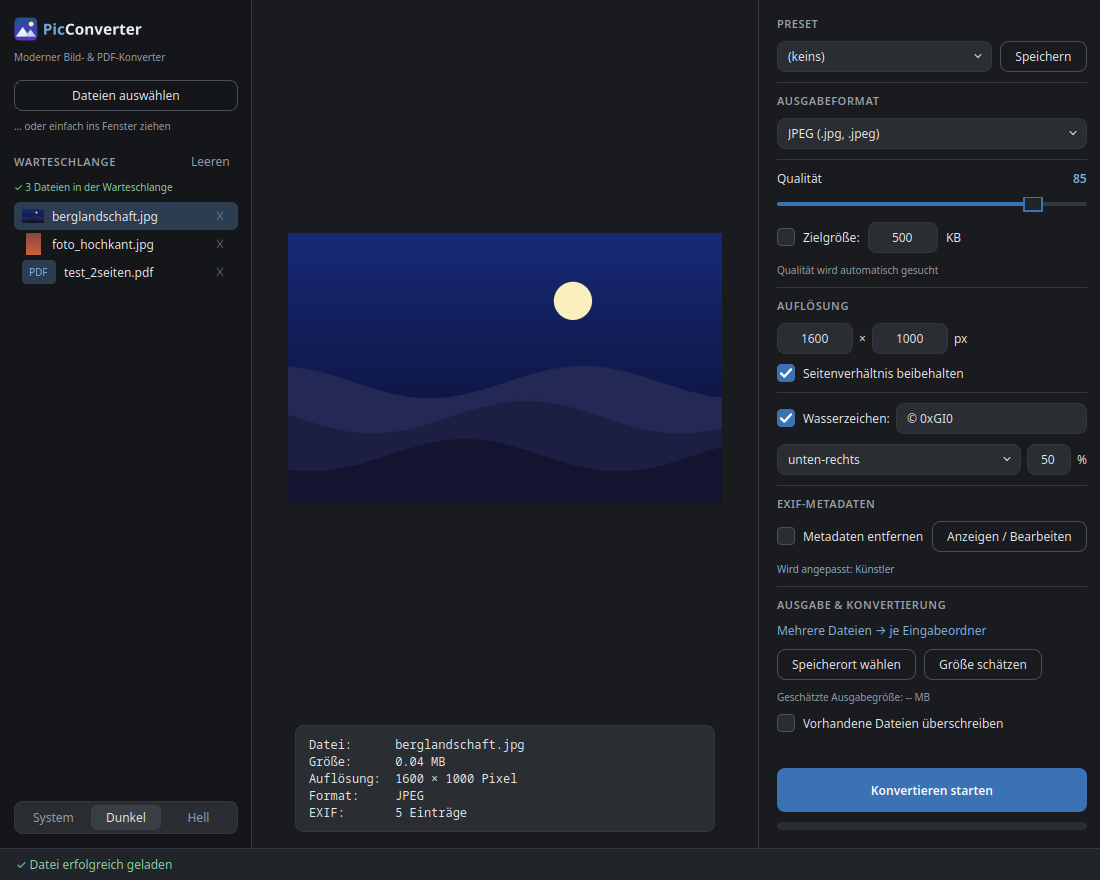
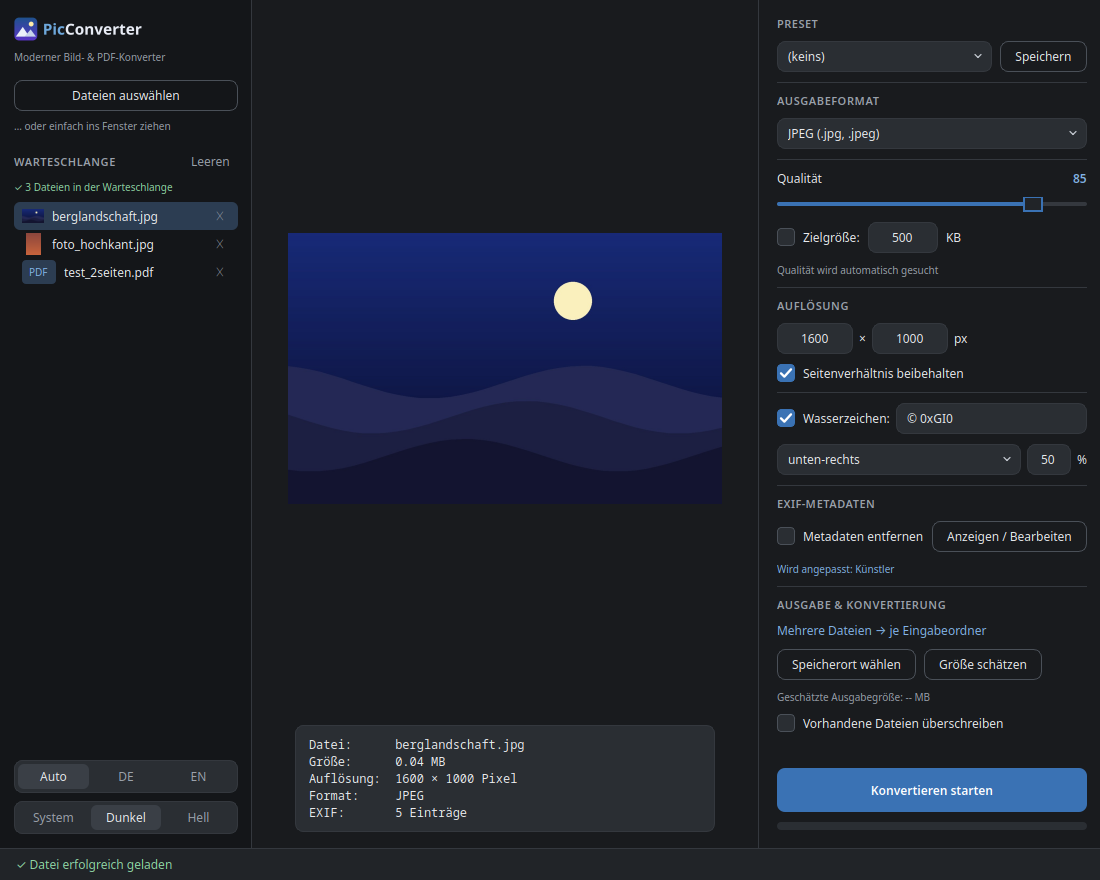
Sprachumschalter (Auto/DE/EN) in der Sidebar: Sprache live wechselbar und persistent
Neue i18n-Funktion set_language(); Einstellungen in _collect_settings/
_apply_settings ausgelagert, UI baut sich beim Wechsel zustandserhaltend
neu auf. Screenshot aktualisiert.

Changed region(s): [[0.0, 0.8591, 0.2164, 0.9205]]

diff --git a/picconverter_gui.py b/picconverter_gui.py
@@ -27,6 +27,7 @@ except ImportError:
 from PIL import Image
 
 import picconverter_core as core
+import picconverter_i18n as i18n
 from picconverter_i18n import tr
 
 ASSETS = Path(__file__).parent / 'assets'
@@ -493,10 +494,16 @@ class _WorkerSignals(QObject):
 class PicConverterGUI(QMainWindow):
     def __init__(self):
         super().__init__()
-        self.setWindowTitle(tr("PicConverter - Bild- & PDF-Konverter"))
         icon_path = ASSETS / 'icon.png'
         if icon_path.exists():
             self.setWindowIcon(QIcon(str(icon_path)))
+
+        # Sprache vor dem UI-Aufbau setzen; PICCONVERTER_LANG hat Vorrang
+        saved = core.load_gui_settings() or {}
+        self.language = saved.get('language', 'system')
+        if os.environ.get('PICCONVERTER_LANG'):
+            self.language = 'system'
+        i18n.set_language(self.language)
 
         self.input_paths = []          # Warteschlange aller geladenen Dateien
         self.selected_index = None     # Index der Datei, die Vorschau/Infos zeigt
@@ -550,6 +557,7 @@ class PicConverterGUI(QMainWindow):
             QFontDatabase.SystemFont.FixedFont)
 
     def setup_ui(self):
+        self.setWindowTitle(tr("PicConverter - Bild- & PDF-Konverter"))
         central = QWidget()
         self.setCentralWidget(central)
         outer = QVBoxLayout(central)
@@ -610,6 +618,26 @@ class PicConverterGUI(QMainWindow):
         self.file_list.currentRowChanged.connect(self.on_row_changed)
         side.addWidget(self.file_list, 1)
 
+        # Sprachumschalter (Auto = Systemsprache)
+        lang_frame = QFrame()
+        lang_frame.setObjectName("segmented")
+        lang_layout = QHBoxLayout(lang_frame)
+        lang_layout.setContentsMargins(3, 3, 3, 3)
+        lang_layout.setSpacing(2)
+        self.language_group = QButtonGroup(self)
+        self.language_buttons = {}
+        for label, lang in (("Auto", 'system'), ("DE", 'de'), ("EN", 'en')):
+            btn = QPushButton(label)
+            btn.setObjectName("segItem")
+            btn.setCheckable(True)
+            btn.setCursor(Qt.CursorShape.PointingHandCursor)
+            btn.clicked.connect(lambda _, l=lang: self.on_language_change(l))
+            lang_layout.addWidget(btn, 1)
+            self.language_group.addButton(btn)
+            self.language_buttons[lang] = btn
+        self.language_buttons[self.language].setChecked(True)
+        side.addWidget(lang_frame)
+
         # Appearance-Umschalter als Segmented Control
         seg_frame = QFrame()
         seg_frame.setObjectName("segmented")
@@ -628,7 +656,7 @@ class PicConverterGUI(QMainWindow):
             seg_layout.addWidget(btn, 1)
             self.appearance_group.addButton(btn)
             self.appearance_buttons[mode] = btn
-        self.appearance_buttons['system'].setChecked(True)
+        self.appearance_buttons[self.appearance_mode].setChecked(True)
         side.addWidget(seg_frame)
 
         main.addWidget(sidebar)
@@ -996,55 +1024,83 @@ class PicConverterGUI(QMainWindow):
         if not settings:
             return
         try:
-            mode = settings.get('appearance', 'system')
-            if mode in self.appearance_buttons:
-                self.appearance_buttons[mode].setChecked(True)
-                self.apply_theme(mode)
-
-            fmt_label = settings.get('format')
-            if fmt_label in SUPPORTED_FORMATS:
-                self.format_menu.setCurrentText(fmt_label)
-                self.on_format_change()
-            if 'quality' in settings:
-                self.quality_slider.setValue(int(settings['quality']))
-                self.on_quality_change()
-            self.target_check.setChecked(bool(settings.get('use_target', False)))
-            self.target_entry.setText(str(settings.get('target_kb', 500)))
-            self.aspect_check.setChecked(bool(settings.get('keep_aspect', True)))
-            self.exif_strip_check.setChecked(bool(settings.get('strip_exif', False)))
-            self.overwrite_check.setChecked(bool(settings.get('overwrite', False)))
-            self.watermark_check.setChecked(bool(settings.get('watermark_on', False)))
-            self.watermark_text_entry.setText(settings.get('watermark_text', ''))
-            pos = settings.get('watermark_pos', 'unten-rechts')
-            if pos in core.WATERMARK_POSITIONS:
-                self.watermark_pos_menu.setCurrentText(tr(pos))
-            self.watermark_opacity_entry.setText(
-                str(settings.get('watermark_opacity', 50)))
-            self.on_target_toggle()
+            self._apply_settings(settings)
         except Exception:
             pass  # defekte Einstellungsdatei ignorieren
+
+    def _apply_settings(self, settings):
+        """Überträgt ein Einstellungs-Dict auf die Widgets"""
+        mode = settings.get('appearance', 'system')
+        if mode in self.appearance_buttons:
+            self.appearance_buttons[mode].setChecked(True)
+            self.apply_theme(mode)
+
+        fmt_label = settings.get('format')
+        if fmt_label in SUPPORTED_FORMATS:
+            self.format_menu.setCurrentText(fmt_label)
+            self.on_format_change()
+        if 'quality' in settings:
+            self.quality_slider.setValue(int(settings['quality']))
+            self.on_quality_change()
+        self.target_check.setChecked(bool(settings.get('use_target', False)))
+        self.target_entry.setText(str(settings.get('target_kb', 500)))
+        self.aspect_check.setChecked(bool(settings.get('keep_aspect', True)))
+        self.exif_strip_check.setChecked(bool(settings.get('strip_exif', False)))
+        self.overwrite_check.setChecked(bool(settings.get('overwrite', False)))
+        self.watermark_check.setChecked(bool(settings.get('watermark_on', False)))
+        self.watermark_text_entry.setText(settings.get('watermark_text', ''))
+        pos = settings.get('watermark_pos', 'unten-rechts')
+        if pos in core.WATERMARK_POSITIONS:
+            self.watermark_pos_menu.setCurrentText(tr(pos))
+        self.watermark_opacity_entry.setText(
+            str(settings.get('watermark_opacity', 50)))
+        self.on_target_toggle()
+
+    def _collect_settings(self):
+        """Liest den aktuellen Widget-Zustand als Einstellungs-Dict aus"""
+        return {
+            'appearance': self.appearance_mode,
+            'language': self.language,
+            'format': self.format_menu.currentText(),
+            'quality': int(self.quality_slider.value()),
+            'use_target': self.target_check.isChecked(),
+            'target_kb': self.target_entry.text(),
+            'keep_aspect': self.aspect_check.isChecked(),
+            'strip_exif': self.exif_strip_check.isChecked(),
+            'overwrite': self.overwrite_check.isChecked(),
+            'watermark_on': self.watermark_check.isChecked(),
+            'watermark_text': self.watermark_text_entry.text(),
+            'watermark_pos': self.watermark_pos_labels.get(
+                self.watermark_pos_menu.currentText(), 'unten-rechts'),
+            'watermark_opacity': self.watermark_opacity_entry.text(),
+        }
 
     def closeEvent(self, event):
         """Speichert die Einstellungen und schließt das Fenster"""
         try:
-            core.save_gui_settings({
-                'appearance': self.appearance_mode,
-                'format': self.format_menu.currentText(),
-                'quality': int(self.quality_slider.value()),
-                'use_target': self.target_check.isChecked(),
-                'target_kb': self.target_entry.text(),
-                'keep_aspect': self.aspect_check.isChecked(),
-                'strip_exif': self.exif_strip_check.isChecked(),
-                'overwrite': self.overwrite_check.isChecked(),
-                'watermark_on': self.watermark_check.isChecked(),
-                'watermark_text': self.watermark_text_entry.text(),
-                'watermark_pos': self.watermark_pos_labels.get(
-                    self.watermark_pos_menu.currentText(), 'unten-rechts'),
-                'watermark_opacity': self.watermark_opacity_entry.text(),
-            })
+            core.save_gui_settings(self._collect_settings())
         except Exception:
             pass
         super().closeEvent(event)
+
+    def on_language_change(self, lang):
+        """Wechselt die Sprache und baut die Oberfläche neu auf"""
+        if lang == self.language:
+            return
+        settings = self._collect_settings()
+        self.language = lang
+        i18n.set_language(lang)
+        self.setup_ui()
+        self.apply_theme(self.appearance_mode)
+        try:
+            self._apply_settings(settings)
+        except Exception:
+            pass
+        self.refresh_file_list()
+        if self.input_paths:
+            self.load_selected()
+        self.update_exif_hint()
+        self.set_status(tr("Sprache geändert"), 'success')
 
     # ---------- Presets ----------
 

diff --git a/picconverter_i18n.py b/picconverter_i18n.py
@@ -173,6 +173,7 @@ Examples:
         "Alle Seiten exportieren": "Export all pages",
         "Vorschau": "Preview",
         "Warteschlange": "Queue",
+        "Sprache geändert": "Language changed",
         "… oder einfach ins Fenster ziehen": "… or simply drag them into the window",
         "Qualität wird automatisch gesucht": "Quality is searched automatically",
         "Vorhandene Dateien überschreiben": "Overwrite existing files",
@@ -314,6 +315,12 @@ def _detect_language():
 
 
 LANGUAGE = _detect_language()
+
+
+def set_language(lang):
+    """Setzt die aktive Sprache zur Laufzeit ('de', 'en' oder 'system')"""
+    global LANGUAGE
+    LANGUAGE = _detect_language() if lang == 'system' else lang
 
 
 def tr(text):

diff --git a/CHANGELOG.md b/CHANGELOG.md
@@ -6,6 +6,11 @@ Versionierung [Semantic Versioning](https://semver.org/lang/de/).
 
 ## [Unreleased]
 
+### Hinzugefügt
+- **Sprachumschalter in der GUI** (Auto/DE/EN, in der Sidebar): die Sprache
+  lässt sich jetzt live wechseln — die Oberfläche baut sich in der neuen
+  Sprache auf, alle Eingaben bleiben erhalten; die Wahl wird gespeichert
+
 ### Geändert
 - **GUI von CustomTkinter auf PySide6 (Qt 6) portiert** — komplett neues,
   flaches Design mit eigenem hellen/dunklen Theme (folgt weiterhin dem

diff --git a/README.en.md b/README.en.md
@@ -41,7 +41,7 @@ An **image & PDF conversion tool** for Python with a modern GUI (Qt/PySide6) and
 - **Animated GIFs/WebPs** keep their animation for GIF↔WebP
 - **Adjustable quality/compression**, **resizing** with aspect-ratio preservation, and **size estimation** before converting
 - **Modern interface**: follows the system theme (switchable), live preview, PDF page navigation, inline results with "open folder", settings persist between sessions
-- **Bilingual**: German/English, follows the system language (`PICCONVERTER_LANG=de|en` to override)
+- **Bilingual**: German/English — follows the system language, switchable right in the GUI (Auto/DE/EN) or via `PICCONVERTER_LANG=de|en`
 - **Two modes**: GUI for interactive use, CLI for scripts and automation
 
 ---

diff --git a/README.md b/README.md
@@ -41,7 +41,7 @@ Ein **Bild- & PDF-Konvertierungs-Tool** für Python mit moderner GUI (Qt/PySide6
 - **Animierte GIFs/WebPs** behalten bei GIF↔WebP ihre Animation
 - **Anpassbare Qualität/Kompression**, **Auflösungsänderung** mit Seitenverhältnis-Erhalt und **Größenprognose** vor der Konvertierung
 - **Moderne Oberfläche**: folgt dem System-Theme (umschaltbar), Live-Vorschau, PDF-Seitennavigation, Ergebnis inline mit „Ordner öffnen“, Einstellungen bleiben zwischen Sitzungen erhalten
-- **Zweisprachig**: Deutsch/Englisch, automatisch nach Systemsprache (`PICCONVERTER_LANG=de|en` zum Umschalten)
+- **Zweisprachig**: Deutsch/Englisch — automatisch nach Systemsprache, direkt in der GUI umschaltbar (Auto/DE/EN) oder per `PICCONVERTER_LANG=de|en`
 - **Zwei Modi**: GUI für interaktive Nutzung, CLI für Skripte und Automatisierung
 
 ---